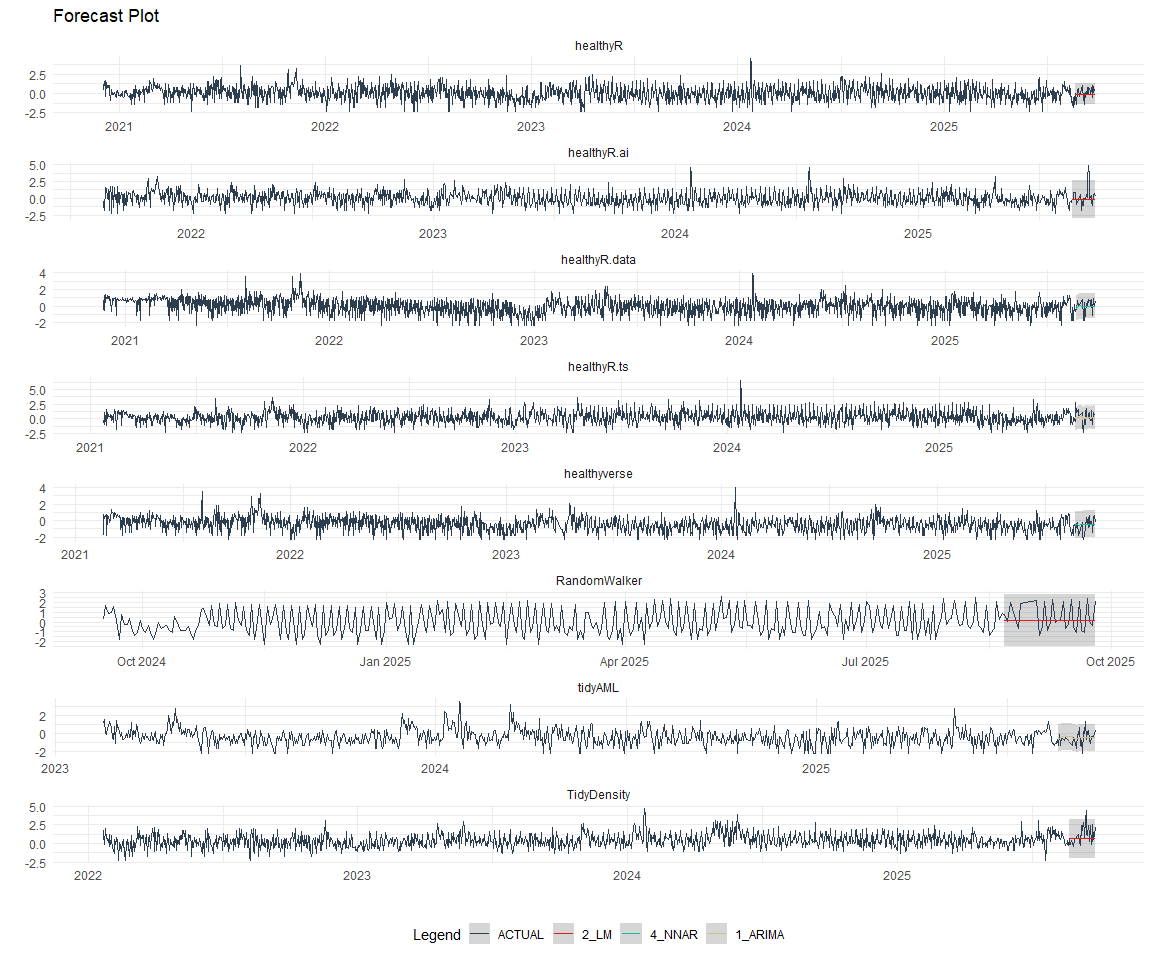
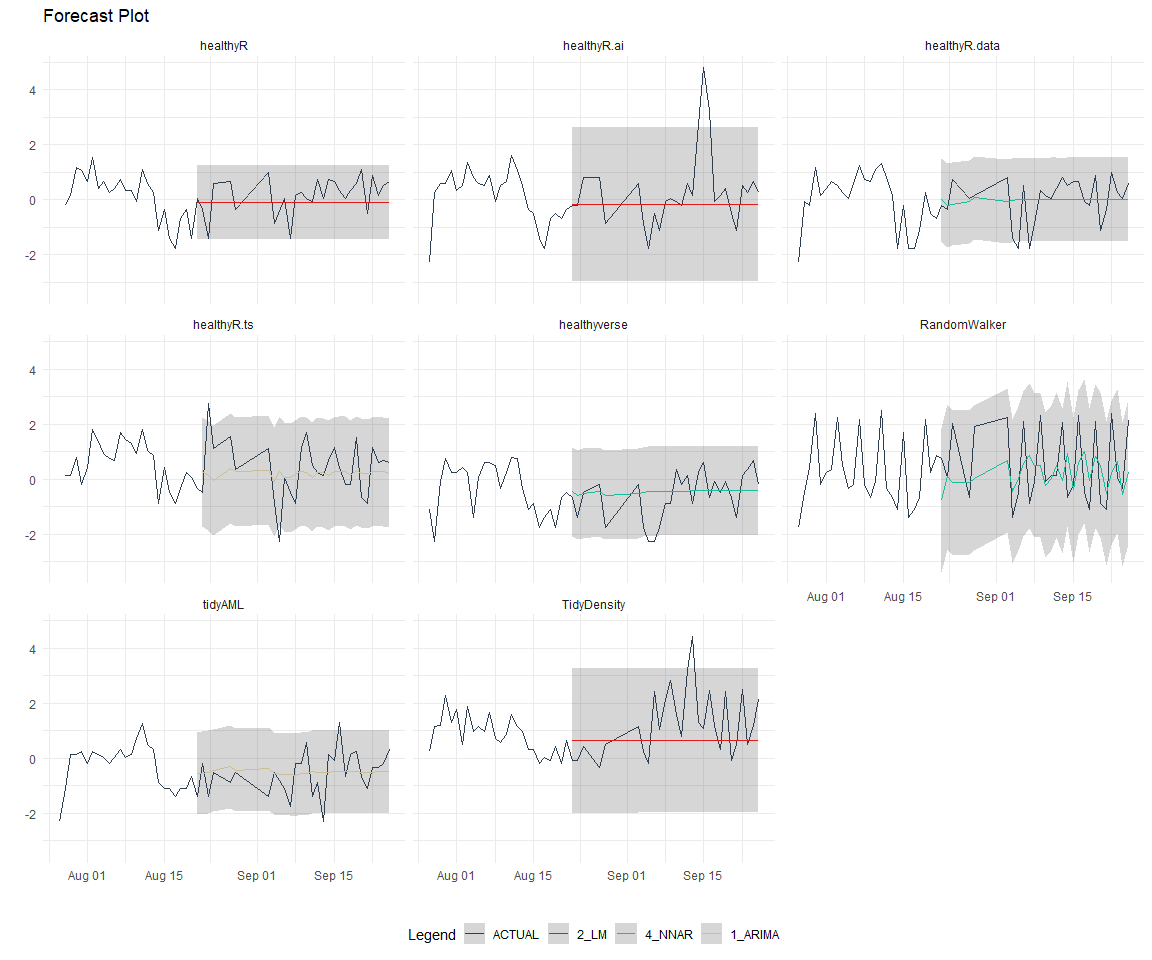
updates

diff --git a/README.md b/README.md
@@ -798,35 +798,35 @@ nested_modeltime_tbl %>%
 | healthyR.data | 1 | ARIMA | Test | 0.6755950 | 172.73991 | 0.8723654 | 156.42763 | 0.7999823 | 0.0220462 |
 | healthyR.data | 2 | LM | Test | 0.7571503 | 252.52539 | 0.9776741 | 158.04385 | 0.8600928 | 0.0346441 |
 | healthyR.data | 3 | EARTH | Test | 4.8041034 | 2506.59131 | 6.2033223 | 177.33667 | 5.1958427 | 0.0346441 |
-| healthyR.data | 4 | NNAR | Test | 0.5902605 | 100.82196 | 0.7621768 | 181.88568 | 0.7649093 | 0.0016036 |
+| healthyR.data | 4 | NNAR | Test | 0.5930744 | 102.77309 | 0.7658103 | 184.21522 | 0.7662652 | 0.0038476 |
 | healthyR | 1 | ARIMA | Test | 0.5945975 | 242.94406 | 0.7962216 | 170.44435 | 0.6825873 | 0.3674558 |
 | healthyR | 2 | LM | Test | 0.5630165 | 146.97805 | 0.7539316 | 182.35467 | 0.6782720 | 0.1498603 |
 | healthyR | 3 | EARTH | Test | 5.9598093 | 3759.17139 | 7.9807411 | 184.37374 | 6.4597238 | 0.1498603 |
-| healthyR | 4 | NNAR | Test | 0.5794321 | 176.74621 | 0.7759137 | 182.69260 | 0.6860397 | 0.0000012 |
+| healthyR | 4 | NNAR | Test | 0.5795087 | 176.38106 | 0.7760162 | 182.52098 | 0.6861962 | 0.0000001 |
 | healthyR.ts | 1 | ARIMA | Test | 0.7796413 | 89.63044 | 0.7730430 | 133.03322 | 1.0054434 | 0.0388246 |
 | healthyR.ts | 2 | LM | Test | 0.7911201 | 120.07873 | 0.7844247 | 123.88697 | 1.0078446 | 0.0131688 |
 | healthyR.ts | 3 | EARTH | Test | 4.3327567 | 1091.42616 | 4.2960875 | 175.83862 | 4.6955181 | 0.0131688 |
-| healthyR.ts | 4 | NNAR | Test | 0.8648556 | 98.97956 | 0.8575362 | 188.23356 | 1.0614434 | 0.0100834 |
+| healthyR.ts | 4 | NNAR | Test | 0.8620979 | 96.80601 | 0.8548018 | 180.21520 | 1.0624775 | 0.0034682 |
 | healthyverse | 1 | ARIMA | Test | 0.6885984 | 195.00243 | 0.9269246 | 105.88254 | 0.8269310 | 0.0026851 |
 | healthyverse | 2 | LM | Test | 0.7005244 | 213.44247 | 0.9429781 | 104.05122 | 0.8363359 | 0.1999877 |
 | healthyverse | 3 | EARTH | Test | 3.7570037 | 1476.43607 | 5.0573148 | 142.35547 | 4.2193011 | 0.1999877 |
-| healthyverse | 4 | NNAR | Test | 0.6615471 | 143.93909 | 0.8905108 | 111.70386 | 0.8217706 | 0.1647474 |
+| healthyverse | 4 | NNAR | Test | 0.6633069 | 145.89305 | 0.8928796 | 111.64424 | 0.8219424 | 0.1373500 |
 | healthyR.ai | 1 | ARIMA | Test | 0.9009711 | 130.42217 | 0.9614453 | 150.80529 | 1.4264216 | 0.0000396 |
 | healthyR.ai | 2 | LM | Test | 0.8758379 | 125.60406 | 0.9346251 | 150.06653 | 1.4115781 | 0.0381807 |
 | healthyR.ai | 3 | EARTH | Test | 6.4948662 | 2729.42021 | 6.9308089 | 180.67829 | 7.1162639 | 0.0381807 |
-| healthyR.ai | 4 | NNAR | Test | 0.8920211 | 123.29471 | 0.9518945 | 150.80817 | 1.4221126 | 0.0016760 |
+| healthyR.ai | 4 | NNAR | Test | 0.8870618 | 117.93231 | 0.9466024 | 151.41162 | 1.4162353 | 0.0000553 |
 | TidyDensity | 1 | ARIMA | Test | 1.0330075 | 141.72001 | 0.8397038 | 106.21632 | 1.3902628 | 0.1107042 |
 | TidyDensity | 2 | LM | Test | 1.0124940 | 176.51099 | 0.8230289 | 100.09921 | 1.3296156 | 0.1401080 |
 | TidyDensity | 3 | EARTH | Test | 3.2331395 | 428.84053 | 2.6281315 | 184.34473 | 3.6705538 | 0.1401080 |
-| TidyDensity | 4 | NNAR | Test | 1.2128463 | 114.49388 | 0.9858899 | 147.54317 | 1.6017092 | 0.0196602 |
+| TidyDensity | 4 | NNAR | Test | 1.1998827 | 114.06168 | 0.9753522 | 144.15790 | 1.5881814 | 0.0009771 |
 | tidyAML | 1 | ARIMA | Test | 0.6104390 | 134.39220 | 0.7128854 | 99.82115 | 0.7631571 | 0.0000277 |
 | tidyAML | 2 | LM | Test | 0.6125772 | 154.56814 | 0.7153825 | 95.02662 | 0.7648483 | 0.1170681 |
 | tidyAML | 3 | EARTH | Test | 4.5144941 | 1485.94931 | 5.2721353 | 148.48267 | 5.0300267 | 0.1170681 |
-| tidyAML | 4 | NNAR | Test | 0.6228870 | 162.54470 | 0.7274224 | 95.69601 | 0.7648613 | 0.0148713 |
+| tidyAML | 4 | NNAR | Test | 0.6256617 | 167.52232 | 0.7306628 | 95.04736 | 0.7709157 | 0.0071908 |
 | RandomWalker | 1 | ARIMA | Test | 1.1237780 | 127.76747 | 0.6023077 | 176.87391 | 1.3886455 | 0.0029060 |
 | RandomWalker | 2 | LM | Test | 1.1239344 | 137.54304 | 0.6023915 | 168.35513 | 1.3466452 | 0.0046033 |
 | RandomWalker | 3 | EARTH | Test | 1.1119896 | 101.48414 | 0.5959895 | 189.90785 | 1.4075497 | NA |
-| RandomWalker | 4 | NNAR | Test | 1.3898950 | 227.82181 | 0.7449375 | 165.89431 | 1.6504606 | 0.1133041 |
+| RandomWalker | 4 | NNAR | Test | 1.1337432 | 191.80647 | 0.6076487 | 145.00074 | 1.3302204 | 0.0447388 |
 
 ### Plot Models
 
@@ -834,12 +834,14 @@ nested_modeltime_tbl %>%
 nested_modeltime_tbl %>%
   extract_nested_test_forecast() %>%
   group_by(package) %>%
+  filter_by_time(.date_var = .index, .start_date = max(.index) - 60) %>%
   plot_modeltime_forecast(
     .interactive = FALSE,
     .conf_interval_show  = FALSE,
     .facet_scales = "free"
   ) +
   theme_minimal() +
+  facet_wrap(~ package, nrow = 3) +
   theme(legend.position = "bottom")
 ```
 
@@ -865,25 +867,27 @@ best_nested_modeltime_tbl %>%
     # A tibble: 8 × 10
       package      .model_id .model_desc .type   mae  mape  mase smape  rmse     rsq
       <fct>            <int> <chr>       <chr> <dbl> <dbl> <dbl> <dbl> <dbl>   <dbl>
-    1 healthyR.da…         4 NNAR        Test  0.590 101.  0.762 182.  0.765 1.60e-3
+    1 healthyR.da…         4 NNAR        Test  0.593 103.  0.766 184.  0.766 3.85e-3
     2 healthyR             2 LM          Test  0.563 147.  0.754 182.  0.678 1.50e-1
     3 healthyR.ts          1 ARIMA       Test  0.780  89.6 0.773 133.  1.01  3.88e-2
-    4 healthyverse         4 NNAR        Test  0.662 144.  0.891 112.  0.822 1.65e-1
+    4 healthyverse         4 NNAR        Test  0.663 146.  0.893 112.  0.822 1.37e-1
     5 healthyR.ai          2 LM          Test  0.876 126.  0.935 150.  1.41  3.82e-2
     6 TidyDensity          2 LM          Test  1.01  177.  0.823 100.  1.33  1.40e-1
     7 tidyAML              1 ARIMA       Test  0.610 134.  0.713  99.8 0.763 2.77e-5
-    8 RandomWalker         2 LM          Test  1.12  138.  0.602 168.  1.35  4.60e-3
+    8 RandomWalker         4 NNAR        Test  1.13  192.  0.608 145.  1.33  4.47e-2
 
 ``` r
 best_nested_modeltime_tbl %>%
   extract_nested_test_forecast() %>%
   #filter(!is.na(.model_id)) %>%
   group_by(package) %>%
+  filter_by_time(.date_var = .index, .start_date = max(.index) - 60) %>%
   plot_modeltime_forecast(
     .interactive = FALSE,
     .conf_interval_alpha = 0.2,
     .facet_scales = "free"
   ) +
+  facet_wrap(~ package, nrow = 3) +
   theme_minimal() +
   theme(legend.position = "bottom")
 ```
@@ -935,11 +939,13 @@ nested_modeltime_refit_tbl %>%
     offset      = offset
   )$rescaled_v)) %>%
   group_by(package) %>%
+  filter_by_time(.date_var = .index, .start_date = max(.index) - 60) %>%
   plot_modeltime_forecast(
     .interactive = FALSE,
     .conf_interval_alpha = 0.2,
     .facet_scales = "free"
   ) +
+  facet_wrap(~ package, nrow = 3) +
   theme_minimal() +
   theme(legend.position = "bottom")
 ```
